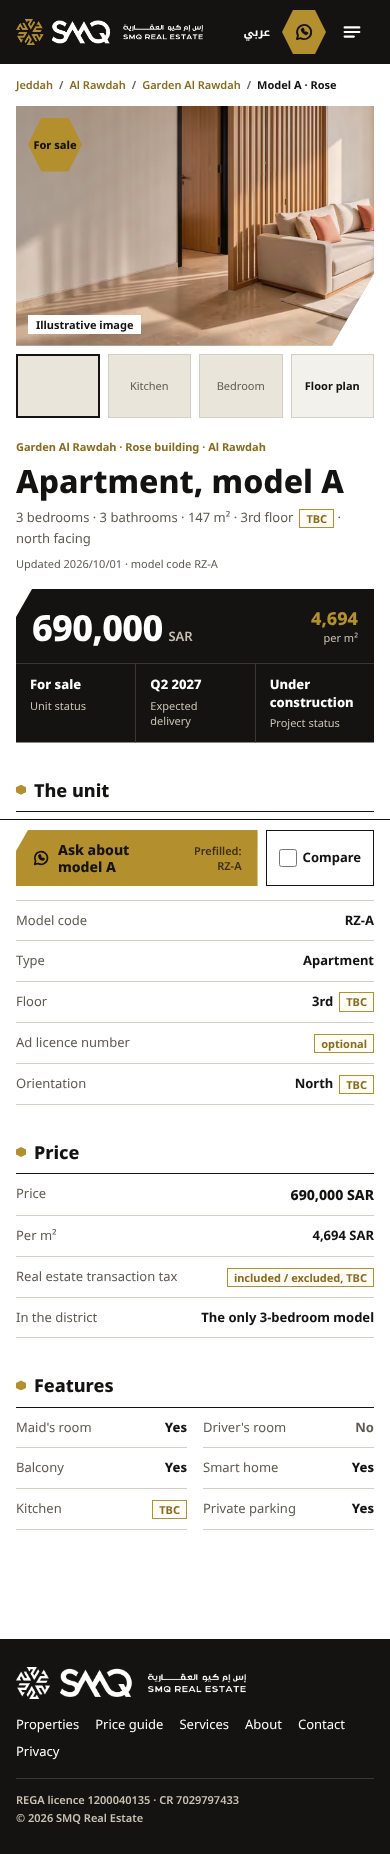
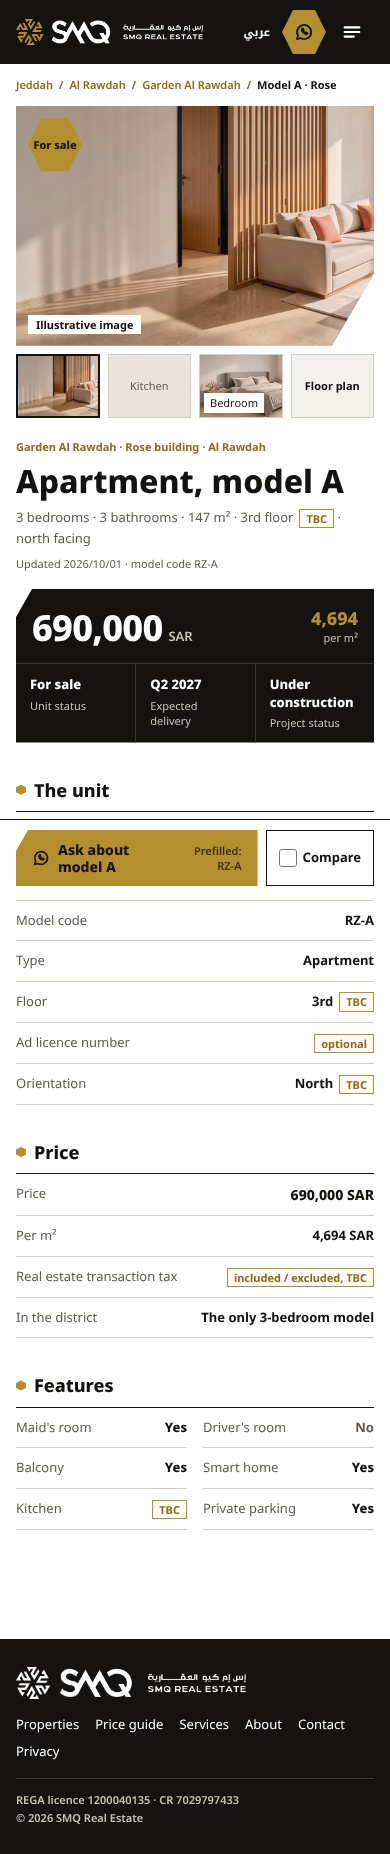
Unit and gallery thumbnails show the generated pictures
The boards' sand thumbs stand for the generated pictures (the real-tier board draws them as photos), so a thumb
whose slot is converted shows it, with its word in a paper chip as on Unit-Gallery-D. Slots on placeholders keep
the word tile. Shots of the unit boards re-taken from the rebuilt export; smoke and flows pass.

Claude-Session: https://claude.ai/code/session_01RctsPUCwu79Fhv9ujF1kfR

Changed region(s): [[0.4923, 0.1845, 0.7385, 0.246], [0.0308, 0.1845, 0.2769, 0.246]]

diff --git a/components/pages/g3/UnitMedia.tsx b/components/pages/g3/UnitMedia.tsx
@@ -3,10 +3,13 @@
 // Generated tier: the slot drawing or the converted render with «صورة تعبيرية»; real tier: /public/real file or the
 // neutral ink frame, no label; typographic tier: the numbers tile, and the thumbs turn into number tiles.
 // The cover opens the full-screen gallery on the same picture; thumbs switch the cover; the last tile is the plan.
+// The boards' sand thumbs stand for the generated pictures: a thumb whose slot is converted shows it, with its word
+// in a paper chip as on Unit-Gallery-D (the cover's «صورة تعبيرية» and the line under the row cover the set).
 import { useState } from "react";
 import Link from "next/link";
 import { cx, fmtArea, bathsLabel } from "@/lib/format";
-import { ImageSlot, StatusBadge } from "@/components/ui";
+import { GeneratedPicture, ImageSlot, StatusBadge } from "@/components/ui";
+import { slotFiles } from "@/lib/images";
 import type { UnitView } from "./view";
 import { galleryItems, unitThumbs, type RealFiles } from "./slots";
 import { orientationEn } from "./view";
@@ -138,6 +141,7 @@ function Thumbs({ view, items, active, onSelect, planHref, planLabel, planLabelD
       {items.slice(0, 4).map((it, i) => {
         const on = i === active;
         const file = real ? realFiles[it.slotId] : undefined;
+        const pic = !real && !!slotFiles(it.slotId);
         return (
           <button
             key={`${it.slotId}-${i}`}
@@ -148,15 +152,18 @@ function Thumbs({ view, items, active, onSelect, planHref, planLabel, planLabelD
             className={cx(
               "relative flex items-center justify-center h-16 md:h-22 px-1 overflow-hidden text-caption leading-tight motion-hover transition-colors",
               i === 3 && "hidden md:flex",
-              real ? (on ? "bg-ink-2 text-paper" : "bg-muted text-paper") : "bg-slot text-muted",
+              real ? (on ? "bg-ink-2 text-paper" : "bg-muted text-paper") : pic ? "bg-slot text-ink" : "bg-slot text-muted",
               on ? "border-2 border-ink font-bold text-ink" : "border border-line font-normal hover:border-ink",
               on && real && "text-paper",
             )}
           >
             {/* eslint-disable-next-line @next/next/no-img-element -- static export, real photos are served as they are */}
             {file && <img src={file} alt="" className="absolute inset-0 size-full object-cover" />}
+            {pic && <GeneratedPicture slotId={it.slotId} sizes="200px" />}
             {/* the active thumb keeps its word on Unit-D and Unit-Roof-M only */}
-            <span className={cx("relative", on && unit.type !== "roof-villa" && "hidden md:inline")}>{en ? it.en : it.short}</span>
+            <span className={cx(pic ? "absolute bottom-1 start-1 px-1.5 py-0.5 bg-paper leading-snug" : "relative", on && unit.type !== "roof-villa" && "hidden md:inline")}>
+              {en ? it.en : it.short}
+            </span>
           </button>
         );
       })}

diff --git a/components/pages/g3/GalleryPage.tsx b/components/pages/g3/GalleryPage.tsx
@@ -11,7 +11,7 @@ import { useQuery, setQuery } from "@/lib/location";
 import { bedsLabel, cx, fmtArea, fmtNum, waLink } from "@/lib/format";
 import { slotFiles } from "@/lib/images";
 import { useStore } from "@/lib/store";
-import { ImageSlot, Lockup, Mark, WhatsAppIcon, useVisitorCode } from "@/components/ui";
+import { GeneratedPicture, ImageSlot, Lockup, Mark, WhatsAppIcon, useVisitorCode } from "@/components/ui";
 import { galleryItems, type RealFiles } from "./slots";
 import { askObject, useUnitView } from "./view";
 
@@ -204,9 +204,16 @@ export function GalleryPage({ slug, realFiles }: { slug: string; realFiles: Real
                 aria-label={it.ar}
                 aria-current={i === idx}
                 onClick={() => go(i)}
-                className={cx("flex items-center justify-center shrink-0 w-16 h-14 px-1 bg-slot text-ink text-caption leading-tight text-center", i === idx ? "border-2 border-gold font-extrabold" : "border border-muted font-normal")}
+                className={cx("relative flex items-center justify-center shrink-0 w-16 h-14 px-1 overflow-hidden bg-slot text-ink text-caption leading-tight text-center", i === idx ? "border-2 border-gold font-extrabold" : "border border-muted font-normal")}
               >
-                {it.gal}
+                {generated && slotFiles(it.slotId) ? (
+                  <>
+                    <GeneratedPicture slotId={it.slotId} sizes="128px" />
+                    <span className="absolute bottom-0.5 start-0.5 px-1 bg-paper leading-snug">{it.gal}</span>
+                  </>
+                ) : (
+                  it.gal
+                )}
               </button>
             ))}
             <Link href={planHref} aria-label="المخطط" className="flex items-center justify-center shrink-0 w-16 h-14 border border-gold bg-sand text-ink text-caption font-extrabold no-underline">
@@ -231,8 +238,9 @@ export function GalleryPage({ slug, realFiles }: { slug: string; realFiles: Real
                   aria-label={it.ar}
                   aria-current={i === idx}
                   onClick={() => go(i)}
-                  className={cx("relative w-28 h-19 p-0 bg-slot hover:opacity-90", i === idx ? "border-2 border-gold" : "border border-muted")}
+                  className={cx("relative w-28 h-19 p-0 overflow-hidden bg-slot hover:opacity-90", i === idx ? "border-2 border-gold" : "border border-muted")}
                 >
+                  {generated && <GeneratedPicture slotId={it.slotId} sizes="224px" />}
                   <span className={cx("absolute bottom-1 start-1 px-1.5 py-0.5 bg-paper text-ink text-caption leading-snug", i === idx ? "font-extrabold" : "font-bold")}>{it.galD}</span>
                 </button>
               ))}

diff --git a/docs/PROGRESS.md b/docs/PROGRESS.md
@@ -102,6 +102,7 @@ Phase 10 · Board review round
 | 2026-10-10 | Presenter switches are one URL parameter each (`members`, `tier`, `ustatus`, `app`, `mreq`, `wa`, `skeleton`, `marks`, `proof`, `offline`, `empty`, `error`, `tour`+`step`); storage keys `smq.presenter`, `smq.compare`, `smq.ref`, `smq.store` | Claude, table in `docs/route-map.md` |
 | 2026-10-10 | Images: the client asked to use the generated images without generating more. First-run candidates rejected for sea views are re-used cropped to their slot ratio (no sea in frame); the two facades keep the building with the sea line above the wall retouched to sky. Parking and the open kitchen stay placeholders | Client, Claude |
 | 2026-10-10 | Board conflicts: RZ-A «مميزات جوهرية أخرى» = «دخول ذكي للعمارة · أبواب مرتفعة» (Unit-M and Admin-UnitEditor-D; Unit-D writes «دخول ذكي · موقف خاص»); unit update dates follow the public unit boards (RZ-RF 2026/10/01, YS-A 2026/09/28), not Admin-Inventory-D; apply status time «أمس 11:20» as on Admin-AllianceApplications-D | Claude |
+| 2026-10-10 | Unit and gallery thumbnails show the slot's generated picture when it is converted (the boards' sand thumbs stand for the pictures, as the real-tier board's grey ones stand for photos); the word sits in a paper chip as on Unit-Gallery-D. Slots still on placeholders keep the word tile | Claude, after the client asked to use the generated images |
 | 2026-10-10 | About-Proof-D shows testimonial t-03 as published (role «مشترٍ», YS-A, سبتمبر 2026) through the fixture's `proof` variant; the admin still holds it pending | Claude, from the boards |
 
 ## Open questions for the client
